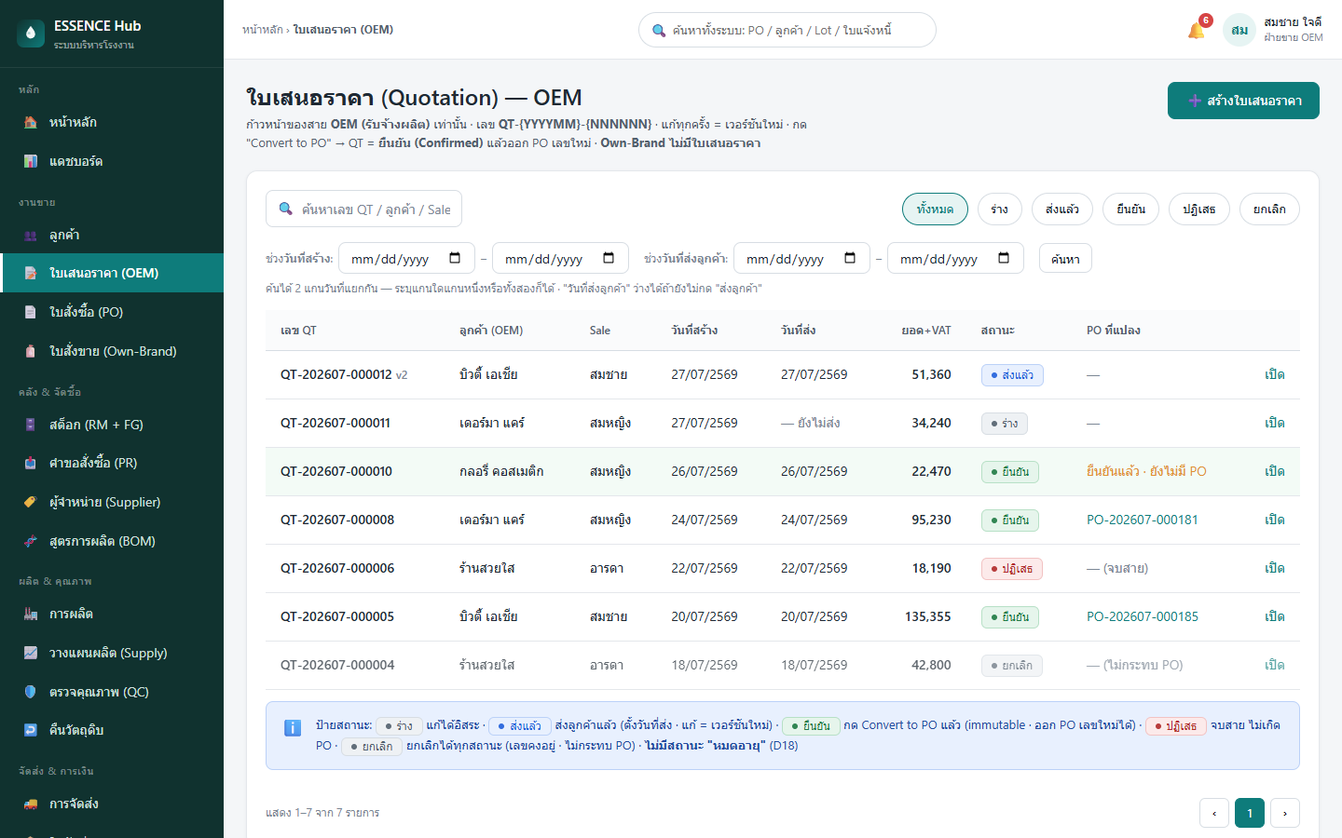
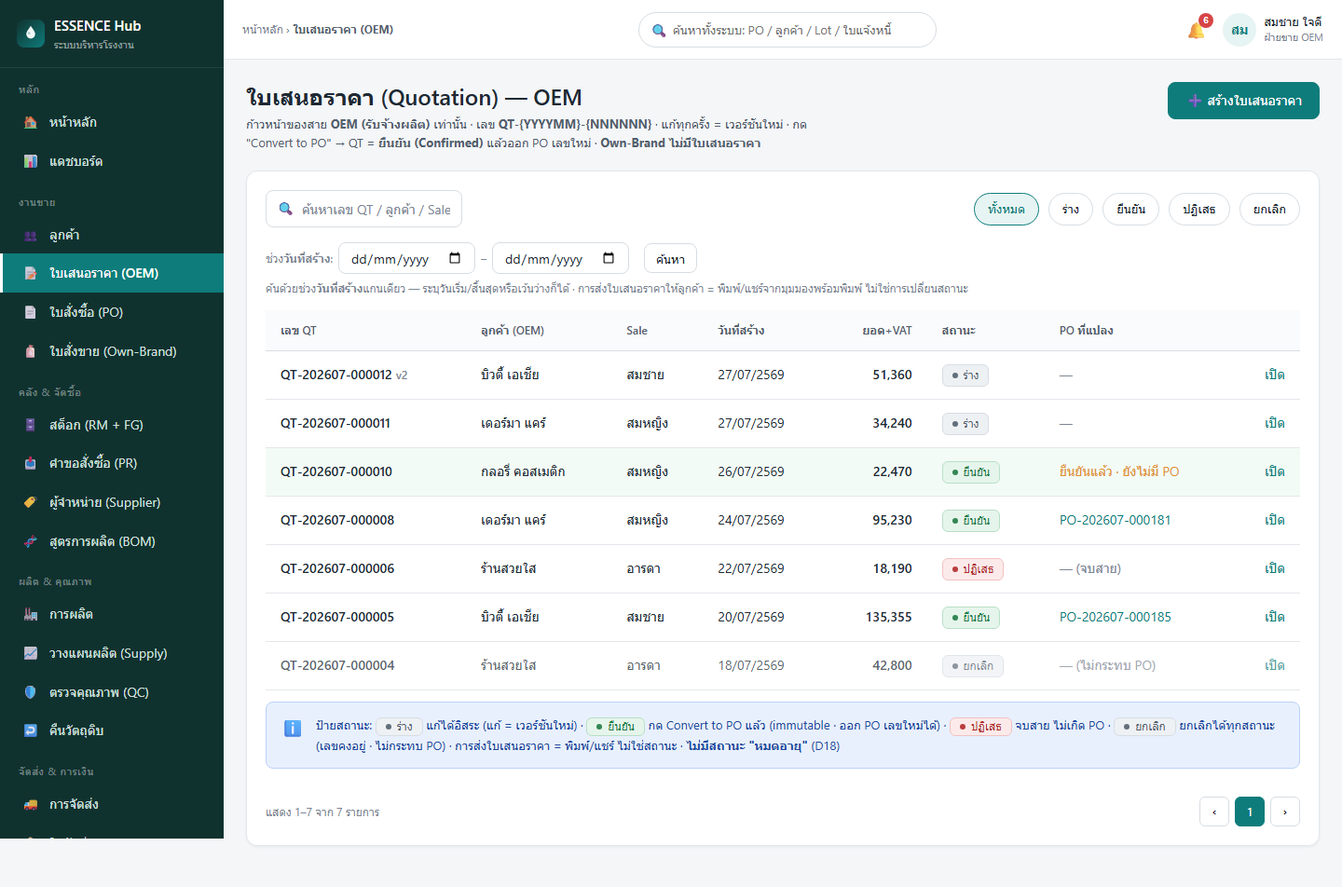
pipeline(erp-v2-ui-first): ux-ui stripped QT Sent status + sent-date from quotation list/detail/create/print (lifecycle Draft/Confirmed/Rejected/Cancelled, created-date single axis) -> Quotation module correct

diff --git a/docs/design/erp-v2-ui-first/mockups/quotation-detail.html b/docs/design/erp-v2-ui-first/mockups/quotation-detail.html
@@ -156,10 +156,10 @@ textarea.inp{height:auto;padding:10px 12px;resize:vertical}
  <div class="noti-f"><a href="trace.html">ดูกิจกรรมทั้งหมด</a></div></div></div><div class="userbox"><div class="avatar">สม</div><div><div class="nm">สมชาย ใจดี</div><div class="rl">ฝ่ายขาย OEM</div></div></div></div></div>
   <div class="content">
 
- <div class="pagehead"><div><h1>QT-202607-000010 <span class="tiny" style="font-size:14px">v2</span> &nbsp;<span class="badge b-processing" id="qtBadge">ส่งแล้ว (Sent)</span></h1><div class="sub" id="qtSub">กลอรี่ คอสเมติก · Sale สมหญิง · OEM · เสนอราคา 26/07/2569 · ส่งลูกค้า 26/07/2569</div></div><div style="display:flex;gap:10px;flex-wrap:wrap"><a class="btn btn-ghost" href="quotation-list.html">← ย้อนกลับ</a><a class="btn" href="quotation-print.html">🖨 พิมพ์ (print-ready)</a>
+ <div class="pagehead"><div><h1>QT-202607-000010 <span class="tiny" style="font-size:14px">v2</span> &nbsp;<span class="badge b-neutral" id="qtBadge">ร่าง (Draft)</span></h1><div class="sub" id="qtSub">กลอรี่ คอสเมติก · Sale สมหญิง · OEM · เสนอราคา 26/07/2569</div></div><div style="display:flex;gap:10px;flex-wrap:wrap"><a class="btn btn-ghost" href="quotation-list.html">← ย้อนกลับ</a><a class="btn" href="quotation-print.html">🖨 พิมพ์ / ส่งให้ลูกค้า (print-ready)</a>
    <button class="btn btn-primary" id="topConvert" onclick="openConvert()">➡ Convert to PO</button>
    <a class="btn btn-primary" id="topGoPO" href="po-create.html" style="display:none">📄 ไปสร้าง PO ด้วยข้อมูลนี้</a></div></div>
- <div class="alert alert-info" id="sentBox"><span class="ai">📤</span><div><b>ส่งให้ลูกค้าแล้ว (26/07/2569) — รอการตอบรับ.</b> ถ้าลูกค้าตกลง กด <b>"Convert to PO"</b> → ระบบถามยืนยัน (สถานะจะเปลี่ยนเป็น <b>ยืนยัน/Confirmed</b>) แล้วให้เลือก "สร้าง PO เดี๋ยวนี้ (prefill)" หรือ "ไว้ทีหลัง" · ถ้าลูกค้าไม่ตกลง กด <b>ปฏิเสธ</b> (จบสาย)</div></div>
+ <div class="alert alert-info" id="sentBox"><span class="ai">📤</span><div><b>ส่งใบเสนอราคาให้ลูกค้าได้ทันทีจากปุ่ม "🖨 พิมพ์ / ส่งให้ลูกค้า" (print-ready)</b> — การส่งเป็นการพิมพ์/แชร์ ไม่เปลี่ยนสถานะ · ถ้าลูกค้าตกลง กด <b>"Convert to PO"</b> → ระบบถามยืนยัน (สถานะจะเปลี่ยนเป็น <b>ยืนยัน/Confirmed</b>) แล้วให้เลือก "สร้าง PO เดี๋ยวนี้ (prefill)" หรือ "ไว้ทีหลัง" · ถ้าลูกค้าไม่ตกลง กด <b>ปฏิเสธ</b> (จบสาย)</div></div>
  <!-- Q5: persistent banner — Confirmed with no PO yet (revealed after Convert-confirm choice ข) -->
  <div class="alert alert-ok" id="confirmedBanner" style="border-color:#B7E0C6;display:none"><span class="ai">✅</span><div><b>ใบเสนอราคานี้ได้รับการยืนยันแล้ว (Confirmed).</b> ยังไม่มี PO ผูกกับใบนี้ — <a href="po-create.html"><b>ไปสร้าง PO ด้วยข้อมูลนี้</b></a> เพื่อออก PO เลขใหม่ (prefill line/จำนวน/ราคา + เก็บลิงก์ QT↔PO) · <b>แบนเนอร์นี้แสดงถาวรจนกว่าจะมี PO</b> — เมื่อมี PO แล้วจะเปลี่ยนเป็นลิงก์ 🔗 PO-… · QT ที่ยืนยันแล้ว = immutable</div></div>
  <div class="split">
@@ -170,7 +170,7 @@ textarea.inp{height:auto;padding:10px 12px;resize:vertical}
     </tbody></table></div><div style="padding:16px 20px;display:flex;justify-content:flex-end"><dl class="kv" style="grid-template-columns:auto auto;gap:6px 24px;text-align:right"><dt class="muted">รวมก่อน VAT</dt><dd class="tnum">21,000.00</dd><dt class="muted">VAT 7%</dt><dd class="tnum">1,470.00</dd><dt style="font-weight:600">จำนวนเงินทั้งสิ้น</dt><dd class="tnum" style="font-weight:600">22,470.00</dd></dl></div>
     <div class="tiny" style="text-align:right;padding:0 20px 16px;color:var(--text2)">(<b>สองหมื่นสองพันสี่ร้อยเจ็ดสิบบาทถ้วน</b>)</div></div></div>
    <div class="card"><div class="card-h"><h3>ประวัติเวอร์ชัน (แก้ทุกครั้ง = เวอร์ชันใหม่)</h3></div><div class="card-b" style="padding:0"><div class="tblwrap"><table class="tbl"><thead><tr><th>เวอร์ชัน</th><th>เหตุผลที่แก้</th><th class="num">ยอด+VAT</th><th>ผู้แก้/เวลา</th><th>สถานะ</th></tr></thead><tbody>
-     <tr><td class="strong">v2 (ปัจจุบัน)</td><td>ลดราคาเซรั่ม 220→200 ตามที่ลูกค้าต่อรอง</td><td class="num tnum">22,470</td><td>สมหญิง · 28/07 09:10</td><td><span class="badge b-processing" id="verBadge">ส่งแล้ว</span></td></tr>
+     <tr><td class="strong">v2 (ปัจจุบัน)</td><td>ลดราคาเซรั่ม 220→200 ตามที่ลูกค้าต่อรอง</td><td class="num tnum">22,470</td><td>สมหญิง · 28/07 09:10</td><td><span class="badge b-neutral" id="verBadge">ร่าง</span></td></tr>
      <tr><td>v1</td><td>เสนอครั้งแรก</td><td class="num tnum">23,540</td><td>สมหญิง · 26/07 14:20</td><td><span class="badge b-neutral">แทนที่แล้ว</span></td></tr>
     </tbody></table></div></div></div>
    <!-- ===== หมายเหตุ (comment) — reusable control · comment-convention CC1–CC7 ===== -->
@@ -197,17 +197,17 @@ textarea.inp{height:auto;padding:10px 12px;resize:vertical}
      <div class="notify" style="margin-top:10px">✎ <b>แก้ = เปิดฟอร์มเวอร์ชันใหม่</b> (เหมือนหน้าสร้าง) — มี <b>"เช็ควัตถุดิบตามสูตร (เหมือน PO · แต่ไม่สร้าง/ส่ง PR)"</b> ครบเช่นเดียวกับตอนสร้าง (Q3) · Confirmed = immutable แก้ไม่ได้</div>
      <div style="border-top:1px dashed var(--border);margin:14px 0 12px"></div>
      <button class="btn btn-danger" style="width:100%;justify-content:center" onclick="openCancel()">🗑 ยกเลิกใบเสนอราคา</button>
-     <div class="notify" style="margin-top:10px;background:#FCEAEA;border-color:#F2C2C2;color:#8F2020">ยกเลิกได้ <b>ทุกสถานะ</b> (ร่าง/ส่งแล้ว/ยืนยัน/ปฏิเสธ) · ต้องระบุ <b>เหตุผล (บังคับ)</b> → บันทึกลง activity-log + ตั้ง QT = <b>ยกเลิก</b> · <b>เลข QT คงอยู่ (gapless · ไม่ลบจริง)</b> · <b>ไม่กระทบ PO</b> ที่เคยแปลงไป (loose reference — ไม่มี cascade)</div>
+     <div class="notify" style="margin-top:10px;background:#FCEAEA;border-color:#F2C2C2;color:#8F2020">ยกเลิกได้ <b>ทุกสถานะ</b> (ร่าง/ยืนยัน/ปฏิเสธ) · ต้องระบุ <b>เหตุผล (บังคับ)</b> → บันทึกลง activity-log + ตั้ง QT = <b>ยกเลิก</b> · <b>เลข QT คงอยู่ (gapless · ไม่ลบจริง)</b> · <b>ไม่กระทบ PO</b> ที่เคยแปลงไป (loose reference — ไม่มี cascade)</div>
      <div class="notify" style="margin-top:12px" id="poLink">🔗 <b>PO ที่แปลง:</b> ยังไม่มี PO — ใช้ปุ่มด้านบนเพื่อออก PO เลขใหม่ แล้วลิงก์จะปรากฏที่นี่ · ตัวอย่างที่แปลงแล้ว: <a href="po-detail.html">QT-000008 → PO-202607-000181</a></div>
    </div></div>
    <div class="card"><div class="card-h"><h3>Activity log (สืบย้อนกลับ)</h3><a class="tiny" href="trace.html">ดูบนหน้า trace ↗</a></div><div class="card-b"><div class="timeline">
      <div class="t" id="trConfirm" style="display:none"><div class="th">Convert to PO → ยืนยัน (Confirmed)</div><div class="tm">28/07 09:12 · สมหญิง</div><div class="tc">ตั้ง QT = Confirmed (immutable) — ยังไม่สร้าง PO</div></div>
      <div class="t"><div class="th">แก้ไขหมายเหตุ (comment)</div><div class="tm">28/07 10:20 · สมชาย</div><div class="tc">"รอยืนยันสเปก" → "ลูกค้าขอปรับกล่องบรรจุ…" <span class="muted">(field=comment)</span></div></div>
-     <div class="t"><div class="th">แก้เป็น v2 + ส่งลูกค้า (Sent)</div><div class="tm">28/07 09:10 · สมหญิง</div><div class="tc">ลดราคาเซรั่ม (v1 → v2) · ตั้งวันที่ส่ง 28/07</div></div>
-     <div class="t"><div class="th">ส่งให้ลูกค้า (Sent) v1</div><div class="tm">26/07 14:25 · สมหญิง</div></div>
+     <div class="t"><div class="th">แก้เป็น v2 (เวอร์ชันใหม่)</div><div class="tm">28/07 09:10 · สมหญิง</div><div class="tc">ลดราคาเซรั่ม (v1 → v2)</div></div>
+     <div class="t"><div class="th">พิมพ์ / ส่งให้ลูกค้า v1</div><div class="tm">26/07 14:25 · สมหญิง</div><div class="tc">พิมพ์จากมุมมองพร้อมพิมพ์ (print-ready) — ไม่เปลี่ยนสถานะ</div></div>
      <div class="t"><div class="th">สร้างร่าง (Draft)</div><div class="tm">26/07 14:20 · สมหญิง</div></div>
    </div>
-   <div class="tiny" style="margin-top:10px;color:var(--text2)">ทุก action (สร้าง/ส่ง/แก้→เวอร์ชัน/แก้ comment/Convert→Confirmed/ยกเลิก) เขียน activity-log และโผล่บนหน้า <a href="trace.html">สืบย้อนกลับ</a> (QT = หัวสาย OEM) · เมื่อกด "ยกเลิก" ระบบเพิ่ม entry <b>"ยกเลิก (Cancelled) + เหตุผล"</b> บนสุด และป้ายสถานะเปลี่ยนเป็น <span class="badge b-neutral" style="height:20px">ยกเลิก</span></div>
+   <div class="tiny" style="margin-top:10px;color:var(--text2)">ทุก action (สร้าง/พิมพ์-ส่ง/แก้→เวอร์ชัน/แก้ comment/Convert→Confirmed/ยกเลิก) เขียน activity-log และโผล่บนหน้า <a href="trace.html">สืบย้อนกลับ</a> (QT = หัวสาย OEM) · เมื่อกด "ยกเลิก" ระบบเพิ่ม entry <b>"ยกเลิก (Cancelled) + เหตุผล"</b> บนสุด และป้ายสถานะเปลี่ยนเป็น <span class="badge b-neutral" style="height:20px">ยกเลิก</span></div>
    </div></div>
   </div>
  </div>
@@ -224,7 +224,7 @@ textarea.inp{height:auto;padding:10px 12px;resize:vertical}
 </div></div><div class="cmodal-bg" id="cancelModal" onclick="if(event.target===this)closeCancel()"><div class="cmodal">
   <div class="cmodal-h"><h3>ยกเลิกใบเสนอราคา · QT-202607-000010</h3><button class="cmodal-x" onclick="closeCancel()" title="ปิด">✕</button></div>
   <div class="cmodal-b">
-    <div class="alert alert-warn" style="font-size:13px;margin-bottom:14px"><span class="ai">⚠</span><div>ยกเลิกได้จากทุกสถานะ (ร่าง/ส่งแล้ว/ยืนยัน/ปฏิเสธ) · การกระทำนี้ตั้ง QT = <b>ยกเลิก (Cancelled)</b> แต่ <b>เลข QT ยังคงอยู่</b> (gapless, ไม่ลบจริง) และบันทึกลง activity-log · <b>คนละช่องกับ "หมายเหตุ (comment)"</b></div></div>
+    <div class="alert alert-warn" style="font-size:13px;margin-bottom:14px"><span class="ai">⚠</span><div>ยกเลิกได้จากทุกสถานะ (ร่าง/ยืนยัน/ปฏิเสธ) · การกระทำนี้ตั้ง QT = <b>ยกเลิก (Cancelled)</b> แต่ <b>เลข QT ยังคงอยู่</b> (gapless, ไม่ลบจริง) และบันทึกลง activity-log · <b>คนละช่องกับ "หมายเหตุ (comment)"</b></div></div>
     <div class="field"><label>เหตุผลการยกเลิก <span class="req">*</span></label><textarea class="inp" rows="3" placeholder="ระบุเหตุผล เช่น ลูกค้ายกเลิกโครงการ / เสนอราคาผิดสเปก / ทำใบใหม่แทน…"></textarea><div class="help">บังคับกรอก — บันทึกลง activity-log (ใคร/เมื่อ/ทำไม)</div></div>
     <div class="alert alert-info" style="font-size:13px;margin-bottom:0"><span class="ai">🔗</span><div><b>ไม่กระทบ PO ที่แปลงไปแล้ว:</b> PO อ้าง QT แบบ loose reference เท่านั้น → <b>ไม่มี cascade</b> · PO ที่เปิดจากใบนี้เดินสายต่อได้ตามปกติ</div></div>
   </div>
@@ -238,7 +238,7 @@ function closeConvert(){document.getElementById('convertModal').classList.remove
 function setConfirmed(){
   var b=document.getElementById('qtBadge');b.className='badge b-success';b.textContent='ยืนยัน (Confirmed)';
   var v=document.getElementById('verBadge');v.className='badge b-success';v.textContent='ยืนยัน';
-  document.getElementById('qtSub').innerHTML='กลอรี่ คอสเมติก · Sale สมหญิง · OEM · เสนอราคา 26/07/2569 · ส่งลูกค้า 26/07/2569 · ยืนยัน 28/07/2569';
+  document.getElementById('qtSub').innerHTML='กลอรี่ คอสเมติก · Sale สมหญิง · OEM · เสนอราคา 26/07/2569 · ยืนยัน 28/07/2569';
   document.getElementById('sentBox').style.display='none';
   document.getElementById('confirmedBanner').style.display='flex';
   document.getElementById('trConfirm').style.display='block';

diff --git a/docs/design/erp-v2-ui-first/mockups/quotation-list.html b/docs/design/erp-v2-ui-first/mockups/quotation-list.html
@@ -152,22 +152,21 @@ textarea.inp{height:auto;padding:10px 12px;resize:vertical}
  <div class="pagehead"><div><h1>ใบเสนอราคา (Quotation) — OEM</h1><div class="sub">ก้าวหน้าของสาย <b>OEM (รับจ้างผลิต)</b> เท่านั้น · เลข <b>QT-{YYYYMM}-{NNNNNN}</b> · แก้ทุกครั้ง = เวอร์ชันใหม่ · กด "Convert to PO" → QT = <b>ยืนยัน (Confirmed)</b> แล้วออก PO เลขใหม่ · <b>Own-Brand ไม่มีใบเสนอราคา</b></div></div><a class="btn btn-primary" href="quotation-create.html">➕ สร้างใบเสนอราคา</a></div>
  <div class="card"><div class="card-b">
    <div class="toolbar"><div class="l"><div class="searchbox"><span class="si">🔍</span><input class="inp" placeholder="ค้นหาเลข QT / ลูกค้า / Sale"></div></div>
-    <div class="r"><span class="chip on">ทั้งหมด</span><span class="chip">ร่าง</span><span class="chip">ส่งแล้ว</span><span class="chip">ยืนยัน</span><span class="chip">ปฏิเสธ</span><span class="chip">ยกเลิก</span></div></div>
+    <div class="r"><span class="chip on">ทั้งหมด</span><span class="chip">ร่าง</span><span class="chip">ยืนยัน</span><span class="chip">ปฏิเสธ</span><span class="chip">ยกเลิก</span></div></div>
    <div class="toolbar" style="margin-bottom:6px"><div class="l" style="gap:16px;flex-wrap:wrap">
      <div style="display:flex;align-items:center;gap:6px"><span class="tiny" style="white-space:nowrap">ช่วง<b>วันที่สร้าง</b>:</span><input class="inp" type="date" style="width:auto;height:34px"><span class="tiny">–</span><input class="inp" type="date" style="width:auto;height:34px"></div>
-     <div style="display:flex;align-items:center;gap:6px"><span class="tiny" style="white-space:nowrap">ช่วง<b>วันที่ส่งลูกค้า</b>:</span><input class="inp" type="date" style="width:auto;height:34px"><span class="tiny">–</span><input class="inp" type="date" style="width:auto;height:34px"></div>
      <button class="btn btn-sm">ค้นหา</button></div></div>
-   <div class="tiny" style="margin-bottom:14px;color:var(--text3)">ค้นได้ 2 แกนวันที่แยกกัน — ระบุแกนใดแกนหนึ่งหรือทั้งสองก็ได้ · "วันที่ส่งลูกค้า" ว่างได้ถ้ายังไม่กด "ส่งลูกค้า"</div>
-   <div class="tblwrap"><table class="tbl" style="min-width:880px"><thead><tr><th>เลข QT</th><th>ลูกค้า (OEM)</th><th>Sale</th><th>วันที่สร้าง</th><th>วันที่ส่ง</th><th class="num">ยอด+VAT</th><th>สถานะ</th><th>PO ที่แปลง</th><th></th></tr></thead><tbody>
-    <tr><td class="strong">QT-202607-000012 <span class="id">v2</span></td><td>บิวตี้ เอเชีย</td><td>สมชาย</td><td class="tnum">27/07/2569</td><td class="tnum">27/07/2569</td><td class="num strong tnum">51,360</td><td><span class="badge b-processing">ส่งแล้ว</span></td><td class="tiny">—</td><td class="num"><a href="quotation-detail.html">เปิด</a></td></tr>
-    <tr><td class="strong">QT-202607-000011</td><td>เดอร์มา แคร์</td><td>สมหญิง</td><td class="tnum">27/07/2569</td><td class="tiny">— ยังไม่ส่ง</td><td class="num strong tnum">34,240</td><td><span class="badge b-neutral">ร่าง</span></td><td class="tiny">—</td><td class="num"><a href="quotation-detail.html">เปิด</a></td></tr>
-    <tr style="background:#F3FBF6"><td class="strong">QT-202607-000010</td><td>กลอรี่ คอสเมติก</td><td>สมหญิง</td><td class="tnum">26/07/2569</td><td class="tnum">26/07/2569</td><td class="num strong tnum">22,470</td><td><span class="badge b-success">ยืนยัน</span></td><td class="tiny" style="color:var(--warning)">ยืนยันแล้ว · ยังไม่มี PO</td><td class="num"><a href="quotation-detail.html">เปิด</a></td></tr>
-    <tr><td class="strong">QT-202607-000008</td><td>เดอร์มา แคร์</td><td>สมหญิง</td><td class="tnum">24/07/2569</td><td class="tnum">24/07/2569</td><td class="num strong tnum">95,230</td><td><span class="badge b-success">ยืนยัน</span></td><td><a href="po-detail.html">PO-202607-000181</a></td><td class="num"><a href="quotation-detail.html">เปิด</a></td></tr>
-    <tr><td class="strong">QT-202607-000006</td><td>ร้านสวยใส</td><td>อารดา</td><td class="tnum">22/07/2569</td><td class="tnum">22/07/2569</td><td class="num strong tnum">18,190</td><td><span class="badge b-error">ปฏิเสธ</span></td><td class="tiny">— (จบสาย)</td><td class="num"><a href="quotation-detail.html">เปิด</a></td></tr>
-    <tr><td class="strong">QT-202607-000005</td><td>บิวตี้ เอเชีย</td><td>สมชาย</td><td class="tnum">20/07/2569</td><td class="tnum">20/07/2569</td><td class="num strong tnum">135,355</td><td><span class="badge b-success">ยืนยัน</span></td><td><a href="po-detail.html">PO-202607-000185</a></td><td class="num"><a href="quotation-detail.html">เปิด</a></td></tr>
-    <tr style="opacity:.72"><td class="strong">QT-202607-000004</td><td>ร้านสวยใส</td><td>อารดา</td><td class="tnum">18/07/2569</td><td class="tnum">18/07/2569</td><td class="num strong tnum">42,800</td><td><span class="badge b-neutral">ยกเลิก</span></td><td class="tiny">— (ไม่กระทบ PO)</td><td class="num"><a href="quotation-detail.html">เปิด</a></td></tr>
+   <div class="tiny" style="margin-bottom:14px;color:var(--text3)">ค้นด้วยช่วง<b>วันที่สร้าง</b>แกนเดียว — ระบุวันเริ่ม/สิ้นสุดหรือเว้นว่างก็ได้ · การส่งใบเสนอราคาให้ลูกค้า = พิมพ์/แชร์จากมุมมองพร้อมพิมพ์ ไม่ใช่การเปลี่ยนสถานะ</div>
+   <div class="tblwrap"><table class="tbl" style="min-width:820px"><thead><tr><th>เลข QT</th><th>ลูกค้า (OEM)</th><th>Sale</th><th>วันที่สร้าง</th><th class="num">ยอด+VAT</th><th>สถานะ</th><th>PO ที่แปลง</th><th></th></tr></thead><tbody>
+    <tr><td class="strong">QT-202607-000012 <span class="id">v2</span></td><td>บิวตี้ เอเชีย</td><td>สมชาย</td><td class="tnum">27/07/2569</td><td class="num strong tnum">51,360</td><td><span class="badge b-neutral">ร่าง</span></td><td class="tiny">—</td><td class="num"><a href="quotation-detail.html">เปิด</a></td></tr>
+    <tr><td class="strong">QT-202607-000011</td><td>เดอร์มา แคร์</td><td>สมหญิง</td><td class="tnum">27/07/2569</td><td class="num strong tnum">34,240</td><td><span class="badge b-neutral">ร่าง</span></td><td class="tiny">—</td><td class="num"><a href="quotation-detail.html">เปิด</a></td></tr>
+    <tr style="background:#F3FBF6"><td class="strong">QT-202607-000010</td><td>กลอรี่ คอสเมติก</td><td>สมหญิง</td><td class="tnum">26/07/2569</td><td class="num strong tnum">22,470</td><td><span class="badge b-success">ยืนยัน</span></td><td class="tiny" style="color:var(--warning)">ยืนยันแล้ว · ยังไม่มี PO</td><td class="num"><a href="quotation-detail.html">เปิด</a></td></tr>
+    <tr><td class="strong">QT-202607-000008</td><td>เดอร์มา แคร์</td><td>สมหญิง</td><td class="tnum">24/07/2569</td><td class="num strong tnum">95,230</td><td><span class="badge b-success">ยืนยัน</span></td><td><a href="po-detail.html">PO-202607-000181</a></td><td class="num"><a href="quotation-detail.html">เปิด</a></td></tr>
+    <tr><td class="strong">QT-202607-000006</td><td>ร้านสวยใส</td><td>อารดา</td><td class="tnum">22/07/2569</td><td class="num strong tnum">18,190</td><td><span class="badge b-error">ปฏิเสธ</span></td><td class="tiny">— (จบสาย)</td><td class="num"><a href="quotation-detail.html">เปิด</a></td></tr>
+    <tr><td class="strong">QT-202607-000005</td><td>บิวตี้ เอเชีย</td><td>สมชาย</td><td class="tnum">20/07/2569</td><td class="num strong tnum">135,355</td><td><span class="badge b-success">ยืนยัน</span></td><td><a href="po-detail.html">PO-202607-000185</a></td><td class="num"><a href="quotation-detail.html">เปิด</a></td></tr>
+    <tr style="opacity:.72"><td class="strong">QT-202607-000004</td><td>ร้านสวยใส</td><td>อารดา</td><td class="tnum">18/07/2569</td><td class="num strong tnum">42,800</td><td><span class="badge b-neutral">ยกเลิก</span></td><td class="tiny">— (ไม่กระทบ PO)</td><td class="num"><a href="quotation-detail.html">เปิด</a></td></tr>
    </tbody></table></div>
-   <div class="alert alert-info" style="margin-top:12px;font-size:13px"><span class="ai">ℹ</span><div>ป้ายสถานะ: <span class="badge b-neutral" style="height:20px">ร่าง</span> แก้ได้อิสระ · <span class="badge b-processing" style="height:20px">ส่งแล้ว</span> ส่งลูกค้าแล้ว (ตั้งวันที่ส่ง · แก้ = เวอร์ชันใหม่) · <span class="badge b-success" style="height:20px">ยืนยัน</span> กด Convert to PO แล้ว (immutable · ออก PO เลขใหม่ได้) · <span class="badge b-error" style="height:20px">ปฏิเสธ</span> จบสาย ไม่เกิด PO · <span class="badge b-neutral" style="height:20px">ยกเลิก</span> ยกเลิกได้ทุกสถานะ (เลขคงอยู่ · ไม่กระทบ PO) · <b>ไม่มีสถานะ "หมดอายุ"</b> (D18)</div></div>
+   <div class="alert alert-info" style="margin-top:12px;font-size:13px"><span class="ai">ℹ</span><div>ป้ายสถานะ: <span class="badge b-neutral" style="height:20px">ร่าง</span> แก้ได้อิสระ (แก้ = เวอร์ชันใหม่) · <span class="badge b-success" style="height:20px">ยืนยัน</span> กด Convert to PO แล้ว (immutable · ออก PO เลขใหม่ได้) · <span class="badge b-error" style="height:20px">ปฏิเสธ</span> จบสาย ไม่เกิด PO · <span class="badge b-neutral" style="height:20px">ยกเลิก</span> ยกเลิกได้ทุกสถานะ (เลขคงอยู่ · ไม่กระทบ PO) · การส่งใบเสนอราคา = พิมพ์/แชร์ ไม่ใช่สถานะ · <b>ไม่มีสถานะ "หมดอายุ"</b> (D18)</div></div>
    <div class="pager"><span class="tiny">แสดง 1–7 จาก 7 รายการ</span><div class="pages"><button class="pgbtn">‹</button><button class="pgbtn on">1</button><button class="pgbtn">›</button></div></div>
  </div></div>
 </div></div></div><nav class="mobilebar"><a href="home.html"><span class="mi">🏠</span>หน้าหลัก</a><a href="po-list.html"><span class="mi">📄</span>PO</a><a href="po-create.html"><span class="mi">➕</span>เปิด PO</a><a href="dashboard.html"><span class="mi">📊</span>สรุป</a></nav></body></html>

diff --git a/docs/design/erp-v2-ui-first/mockups/quotation-create.html b/docs/design/erp-v2-ui-first/mockups/quotation-create.html
@@ -235,12 +235,12 @@ textarea.inp{height:auto;padding:10px 12px;resize:vertical}
        <div class="tiny" style="margin-top:8px">ประวัติเป็น audit — <b>ลบไม่ได้ (CC7)</b> · โผล่บนหน้า <a href="trace.html">สืบย้อนกลับ</a> (field=comment)</div></div>
    </div></div>
    <div class="footerbar" style="position:static;margin:0;border:1px solid var(--border2);border-radius:var(--radius-lg);background:#fff"><button class="btn">บันทึกร่าง (Draft)</button><button class="btn">ยกเลิก</button><a class="btn btn-primary" href="quotation-print.html">บันทึก</a></div>
-   <div class="notify" style="margin-top:10px">🖨 กด <b>"บันทึก"</b> → ออกเลข QT + เปิด <b>มุมมองพร้อมพิมพ์ (print-ready)</b> ทันที เพื่อพิมพ์/ส่งให้ลูกค้า · การตั้งสถานะ "ส่งแล้ว (Sent)" ทำจากหน้ารายละเอียด</div>
+   <div class="notify" style="margin-top:10px">🖨 กด <b>"บันทึก"</b> → ออกเลข QT + เปิด <b>มุมมองพร้อมพิมพ์ (print-ready)</b> ทันที เพื่อพิมพ์/ส่งให้ลูกค้า · การส่งใบเสนอราคา = พิมพ์/แชร์ ไม่ใช่การเปลี่ยนสถานะ</div>
   </div>
   <div>
    <div class="card"><div class="card-h"><h3>เวอร์ชัน & ขั้นตอนถัดไป</h3></div><div class="card-b">
-     <div class="alert alert-info" style="font-size:13px"><span class="ai">🧾</span><div><b>เลข QT-202607-000013</b> ออกอัตโนมัติเมื่อบันทึก (gapless ต่อเดือน) · <b>แก้ทุกครั้งหลังส่ง = เวอร์ชัน/เลขใหม่</b> เก็บประวัติ (immutable เมื่อออกไปแล้ว) — D18-4</div></div>
-     <div class="flow" style="margin:8px 0 6px"><div class="s cur"><span class="n">1</span>ร่าง</div><div class="line"></div><div class="s"><span class="n">2</span>ส่งแล้ว</div><div class="line"></div><div class="s"><span class="n">3</span>ยืนยัน</div><div class="line"></div><div class="s"><span class="n">4</span>ออก PO</div></div>
+     <div class="alert alert-info" style="font-size:13px"><span class="ai">🧾</span><div><b>เลข QT-202607-000013</b> ออกอัตโนมัติเมื่อบันทึก (gapless ต่อเดือน) · <b>แก้ทุกครั้งหลังบันทึก = เวอร์ชัน/เลขใหม่</b> เก็บประวัติ (immutable เมื่อออกไปแล้ว) — D18-4</div></div>
+     <div class="flow" style="margin:8px 0 6px"><div class="s cur"><span class="n">1</span>ร่าง</div><div class="line"></div><div class="s"><span class="n">2</span>ยืนยัน</div><div class="line"></div><div class="s"><span class="n">3</span>ออก PO</div></div>
      <div class="notify" style="margin-top:12px">➡ กด <b>"Convert to PO"</b> ที่หน้ารายละเอียด → popup ยืนยัน → QT = <b>ยืนยัน (Confirmed)</b> ทันที (immutable) แล้วเลือกออก <b>PO เลขใหม่</b> เดี๋ยวนี้ (prefill) หรือทีหลัง + เก็บลิงก์ QT↔PO (D18) → เข้าสาย OEM เดิม</div>
      <div class="notify" style="margin-top:8px">✎ <b>หน้านี้ใช้ตอนแก้ (เวอร์ชันใหม่) ด้วย</b> — มี <b>"เช็ควัตถุดิบตามสูตร (เหมือน PO · แต่ไม่สร้าง/ส่ง PR)"</b> ครบเช่นเดียวกับตอนสร้าง (Q3)</div>
      <div class="notify" style="margin-top:8px">↩ ลูกค้าไม่ตกลง → ตั้งสถานะ <b>ปฏิเสธ (Rejected)</b> จบสาย ไม่เกิด PO (เก็บเป็นประวัติ)</div>

diff --git a/docs/design/erp-v2-ui-first/mockups/quotation-print.html b/docs/design/erp-v2-ui-first/mockups/quotation-print.html
@@ -26,7 +26,7 @@ table.doc th,table.doc td{border:0.5pt solid #111;padding:6px 8px}table.doc th{b
 @media print{body{background:#fff}.toolbar-print,.okbar{display:none}.paper{margin:0;box-shadow:none;width:auto}}
 </style></head><body>
  <div class="toolbar-print"><a href="quotation-detail.html">← กลับไปรายละเอียด</a><div style="display:flex;gap:8px"><a class="btn" href="quotation-list.html">รายการใบเสนอราคา</a><button class="btn btn-primary" onclick="window.print()">🖨 พิมพ์ / บันทึก PDF</button></div></div>
- <div class="okbar">✓ <b>บันทึกใบเสนอราคาแล้ว — QT-202607-000013</b> · นี่คือมุมมองพร้อมพิมพ์ (print-ready) เปิดทันทีหลังบันทึก เพื่อพิมพ์หรือส่งให้ลูกค้าได้เลย · การตั้งสถานะ "ส่งแล้ว (Sent)" ทำจากหน้ารายละเอียด</div>
+ <div class="okbar">✓ <b>บันทึกใบเสนอราคาแล้ว — QT-202607-000013</b> · นี่คือมุมมองพร้อมพิมพ์ (print-ready) เปิดทันทีหลังบันทึก เพื่อพิมพ์หรือส่งให้ลูกค้าได้เลย · การส่งใบเสนอราคา = พิมพ์/แชร์ ไม่ใช่การเปลี่ยนสถานะ</div>
  <div class="paper">
   <div class="doc-h"><div><div class="doc-title">ใบเสนอราคา</div><div>Quotation</div><div style="margin-top:6px;font-size:11px;color:#555">ต้นฉบับ (Original)</div></div><div class="logo-box">LOGO บริษัท</div></div>
   <div class="parties">
